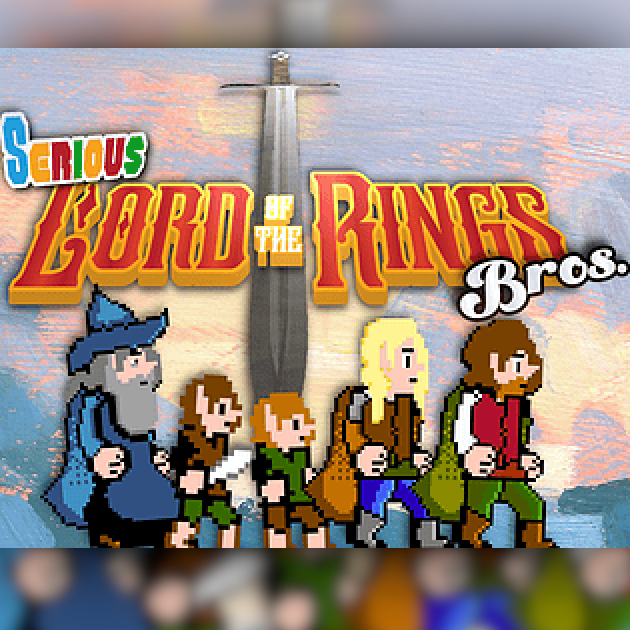
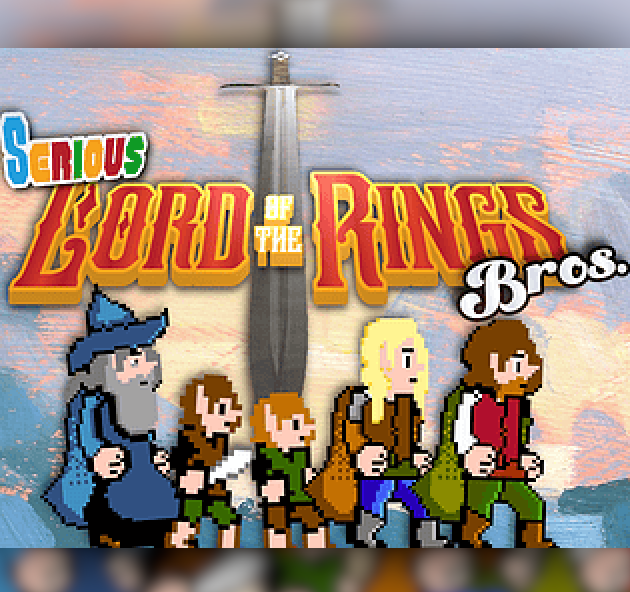
Fixed thumbnails

diff --git a/src/pages/Home.tsx b/src/pages/Home.tsx
@@ -6,12 +6,23 @@ import { useTranslation } from "react-i18next";
 const Home = () => {
   const { t } = useTranslation()
 
-  function projectThumbnail(text: string, image: string, link: string) {
+  function projectThumbnail(
+    text: string, 
+    image: string, 
+    link: string, 
+    centerImage: boolean = false 
+  ) {
     return (
       <div>
         <Link to={`/project/${link}`}>
-          <div className="h-[250px] text-white hover:brightness-90 transition duration-150"
-               style={{backgroundImage: image, backgroundSize: "cover"}} />
+          <div 
+            className="h-[250px] text-white hover:brightness-90 transition duration-150"
+            style={{
+              backgroundImage: image, 
+              backgroundSize: "cover",
+              backgroundPosition: centerImage ? "center" : undefined
+            }} 
+          />
           <p className="m-2 font-fredoka text-[18px] text-center">{ text }</p>
         </Link>
       </div>
@@ -27,11 +38,11 @@ const Home = () => {
 
       {/* Game Projects */}
       <div className="grid grid-cols-1 md:grid-cols-3 xl:grid-cols-5 gap-4">
-        { projectThumbnail("ARTIUS: Pure Imagination",        "url(/img/artius/thumb.png)",      "artius")      }
-        { projectThumbnail("Ednaldo Pereira: MESCLADASSO",    "url(/img/ednaldo/thumb.png)",     "ednaldo")     }
-        { projectThumbnail("Serious Lord of the Rings Bros.", "url(/img/seriouslotr/thumb.png)", "seriouslotr") }
-        { projectThumbnail("Shoelace!",                       "url(/img/shoelace/thumb.png)",    "shoelace")    }
-        { projectThumbnail("Meet Metris",                     "url(/img/meetmetris/thumb.png)",  "meetmetris")  }
+        { projectThumbnail("ARTIUS: Pure Imagination",        "url(/img/artius/thumb.png)",      "artius",      true) }
+        { projectThumbnail("Ednaldo Pereira: MESCLADASSO",    "url(/img/ednaldo/thumb.png)",     "ednaldo",     true) }
+        { projectThumbnail("Serious Lord of the Rings Bros.", "url(/img/seriouslotr/thumb.png)", "seriouslotr", true) }
+        { projectThumbnail("Shoelace!",                       "url(/img/shoelace/thumb.png)",    "shoelace",    true) }
+        { projectThumbnail("Meet Metris",                     "url(/img/meetmetris/thumb.png)",  "meetmetris",  true) }
       </div>
 
       {/* Section title */}
